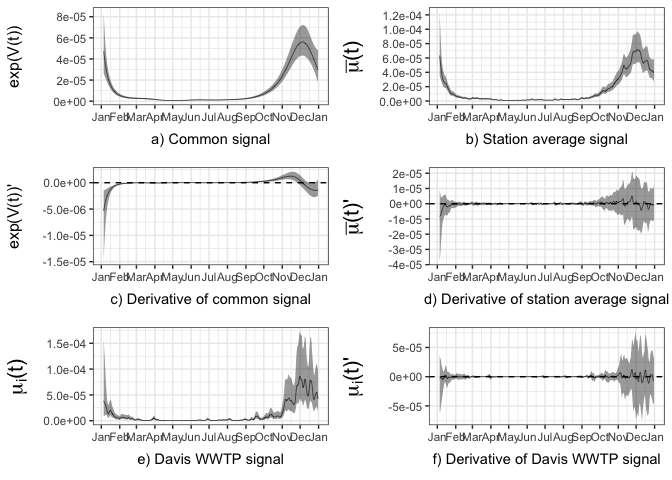
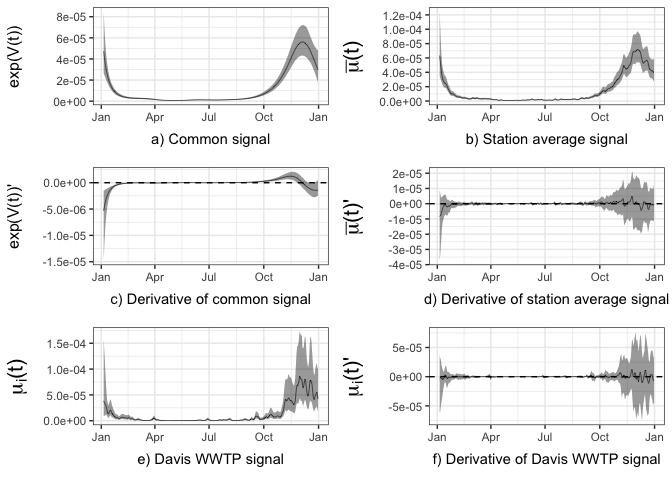
changed x labels

diff --git a/section 3.2/README.md b/section 3.2/README.md
@@ -298,7 +298,7 @@ gg1 <- df_full %>%
   scale_y_continuous(name = "exp(V(t))", 
                      breaks = scales::pretty_breaks(n=5),
                      labels = function(x){format(x, scientific = TRUE)})+ 
-  scale_x_date(breaks=scales::pretty_breaks(n=10), name = "",date_labels ="%b")+
+  scale_x_date(breaks=scales::pretty_breaks(n=5), name = "",date_labels ="%b")+
   theme(axis.title.y = element_text(size = 12),
         axis.text.x.top = element_text(vjust = -68),
         axis.ticks.x.top = element_blank(),
@@ -318,7 +318,7 @@ gg2 <- df_full %>%
                      breaks = scales::pretty_breaks(n=5),
                      labels = function(x){format(x, scientific = TRUE)})+ 
   geom_hline(yintercept=0, lty="dashed")+
-  scale_x_date(breaks=scales::pretty_breaks(n=10), name = "",date_labels ="%b")+
+  scale_x_date(breaks=scales::pretty_breaks(n=5), name = "",date_labels ="%b")+
   theme(axis.title.y = element_text(size = 12),
         axis.text.x.top = element_text(vjust = -68),
         axis.ticks.x.top = element_blank(),
@@ -333,7 +333,7 @@ gg3 <- station_ave_df %>%
   scale_y_continuous(name = expression(paste(bar(mu),"(t)")),
                      breaks = scales::pretty_breaks(n=5),
                      labels = function(x){format(x, scientific = TRUE)})+
-  scale_x_date(breaks=scales::pretty_breaks(n=10), name = "",date_labels ="%b")+
+  scale_x_date(breaks=scales::pretty_breaks(n=5), name = "",date_labels ="%b")+
   theme(axis.title.y = element_text(size = 16),
         axis.text.x.top = element_text(vjust = -68),
         axis.ticks.x.top = element_blank(),
@@ -348,7 +348,7 @@ gg4 <- station_ave_df %>%
                      breaks = scales::pretty_breaks(n=5),
                      labels = function(x){format(x, scientific = TRUE)})+
   geom_hline(yintercept=0, lty="dashed")+
-  scale_x_date(breaks=scales::pretty_breaks(n=10), name = "",date_labels ="%b")+
+  scale_x_date(breaks=scales::pretty_breaks(n=5), name = "",date_labels ="%b")+
   theme(axis.title.y = element_text(size = 16),
         axis.text.x.top = element_text(vjust = -68),
         axis.ticks.x.top = element_blank(),
@@ -365,7 +365,7 @@ gg5 <- df_full %>%
   scale_y_continuous(name = expression(paste(mu[i],"(t)")), 
                      breaks = scales::pretty_breaks(n=5),
                      labels = function(x){format(x, scientific = TRUE)})+ 
-  scale_x_date(breaks=scales::pretty_breaks(n=10), name = "",date_labels ="%b")+
+  scale_x_date(breaks=scales::pretty_breaks(n=5), name = "",date_labels ="%b")+
   theme(axis.title.y = element_text(size = 16),
         axis.text.x.top = element_text(vjust = -68),
         axis.ticks.x.top = element_blank(),
@@ -382,7 +382,7 @@ gg6 <- df_full %>%
   scale_y_continuous(name = expression(paste(mu[i],"(t)'")), 
                      breaks = scales::pretty_breaks(n=5),
                      labels = function(x){format(x, scientific = TRUE)})+ 
-  scale_x_date(breaks=scales::pretty_breaks(n=10), name = "",date_labels ="%b")+
+  scale_x_date(breaks=scales::pretty_breaks(n=5), name = "",date_labels ="%b")+
   theme(axis.title.y = element_text(size = 16),
         axis.text.x.top = element_text(vjust = -68),
         axis.ticks.x.top = element_blank(),
